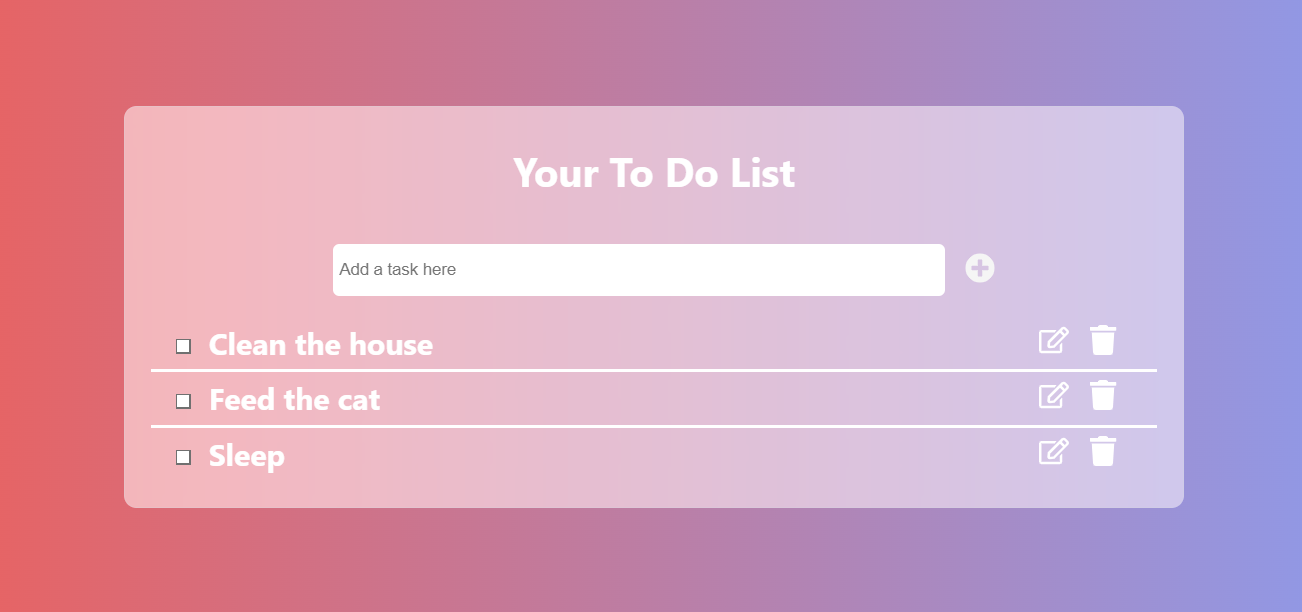
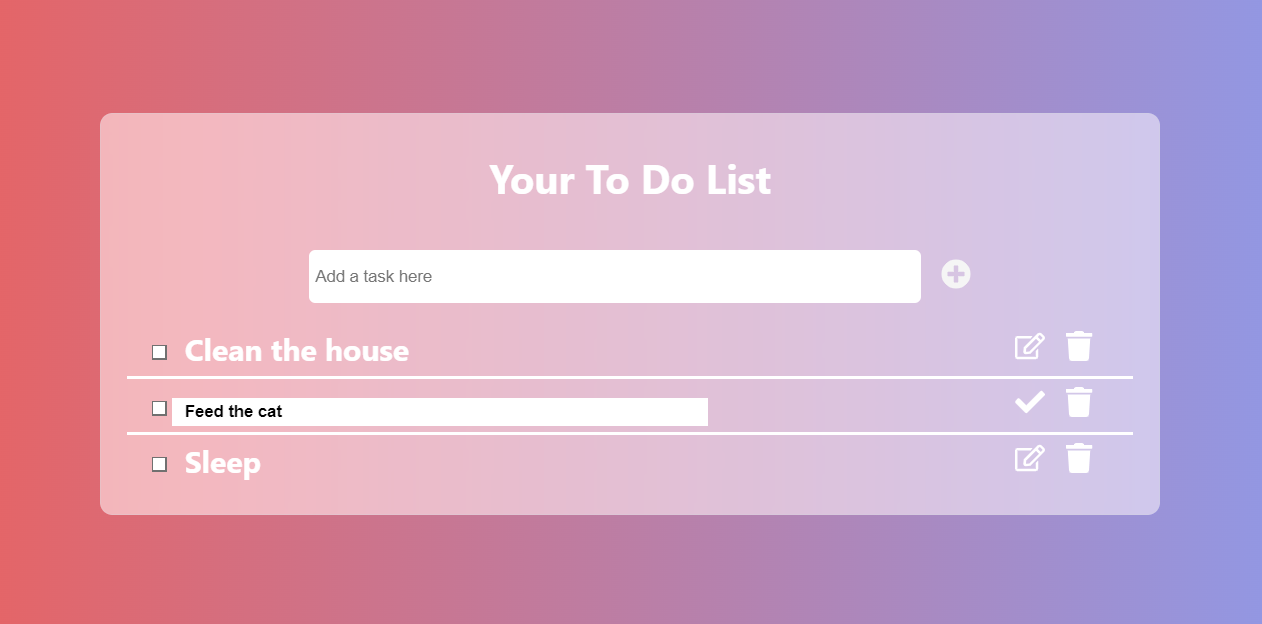
Increase padding of input field

diff --git a/src/App.css b/src/App.css
@@ -21,7 +21,6 @@
 
 .item {
   display: flex;
-
   font-size: 1.5em;
   padding-top: 5px;
   padding-bottom: 5px;
@@ -34,6 +33,11 @@
 .itemContainer {
   flex: 1 0 auto;
   margin-left: 2%;
+}
+
+.itemContainer > input[type='text'] {
+  height: 20px;
+  border: none;
 }
 
 .btnContainer {
@@ -71,8 +75,8 @@
   margin: 2%;
   border-radius: 5px;
   height: 40px;
-  border: rgba(209, 213, 219, 0.3);
   padding-left: 5px;
+  border: none;
 }
 
 .title {
